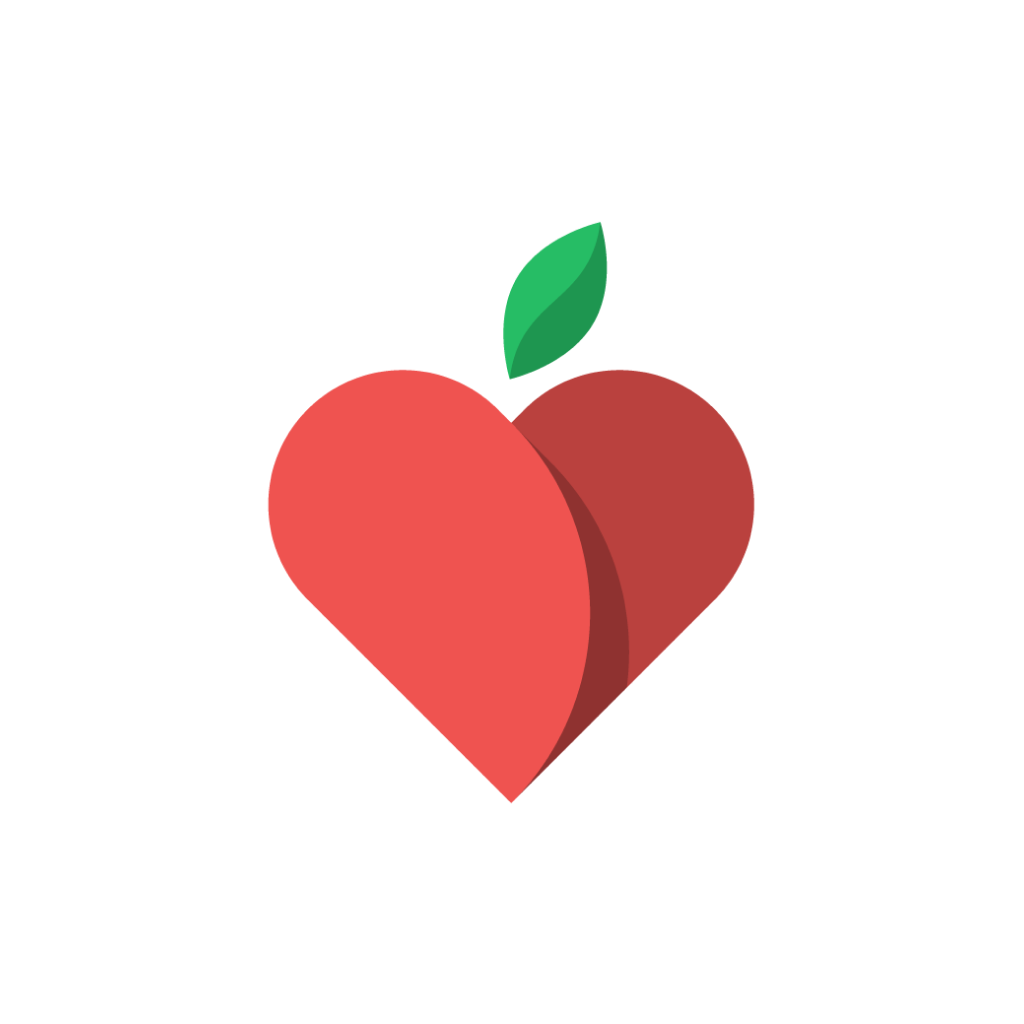
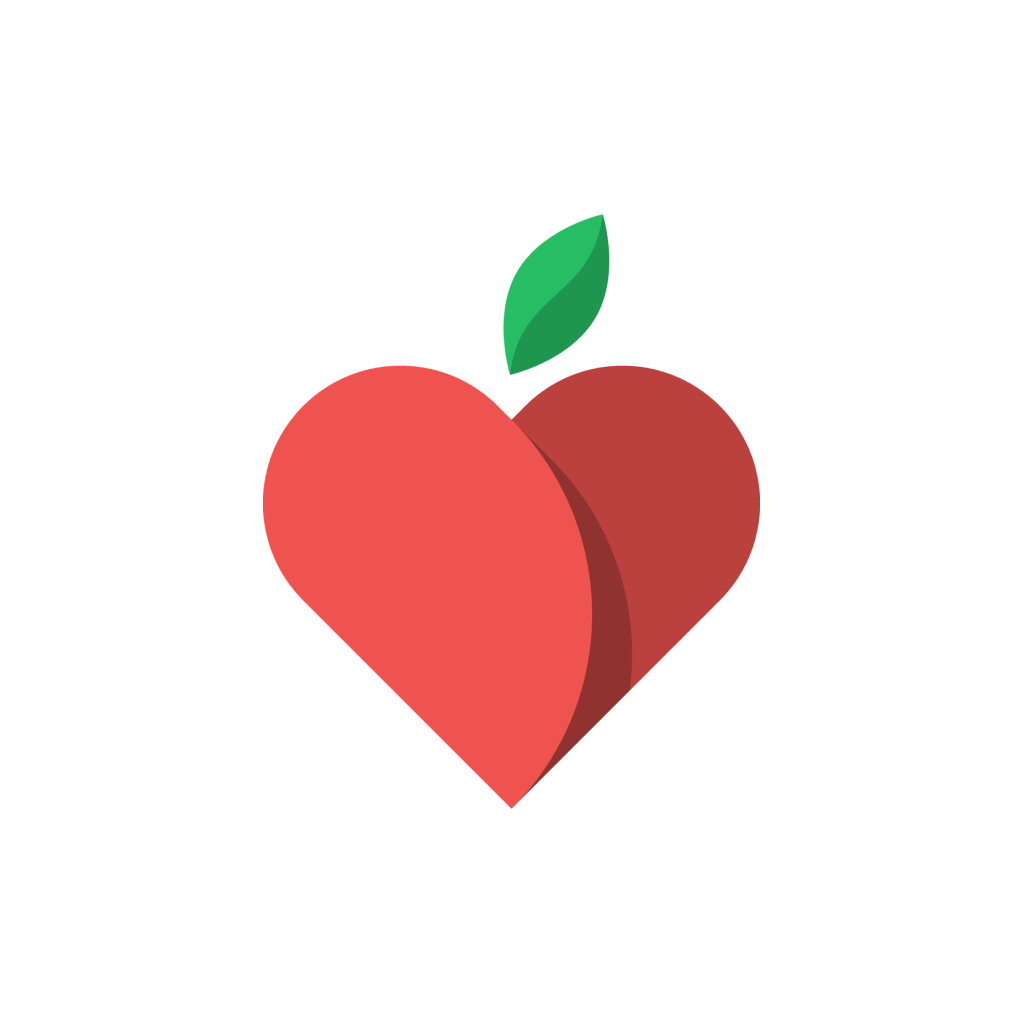
apply new brand

diff --git a/src/components/ProductHeaderComponent.js b/src/components/ProductHeaderComponent.js
@@ -10,11 +10,11 @@ export function ProductHeaderComponent({product}) {
     {
         switch (product.fodmapStatus) {
             case 'high':
-                return (<Text><FontAwesome name="circle" size={16} color="red" /> Avoid</Text>)
+                return (<Text><FontAwesome name="circle" size={16} color="#EF5350" /> Avoid</Text>)
             case 'medium':
                 return (<Text><FontAwesome name="circle" size={16} color="orange" /> Caution</Text>)
             case 'low':
-                return (<Text><FontAwesome name="circle" size={16} color="green" /> OK</Text>)
+                return (<Text><FontAwesome name="circle" size={16} color="#26BD65" /> OK</Text>)
             case 'unknown':
             default:
                 return (<Text><FontAwesome name="circle" size={16} color="lightgrey" /> Unknown</Text>)

diff --git a/src/components/IngredientListComponent.js b/src/components/IngredientListComponent.js
@@ -10,11 +10,11 @@ export function IngredientListComponent({  product }) {
   {
       switch (fodmapStatus) {
           case 'high':
-            return (<Text>Avoid <FontAwesome name="circle" size={16} color="red" /></Text>)
+            return (<Text>Avoid <FontAwesome name="circle" size={16} color="#EF5350" /></Text>)
           case 'medium':
             return (<Text>Caution <FontAwesome name="circle" size={16} color="orange" /></Text>)
           case 'low':
-            return (<Text>OK <FontAwesome name="circle" size={16} color="green" /></Text>)
+            return (<Text>OK <FontAwesome name="circle" size={16} color="#26BD65" /></Text>)
           case 'unknown':
           default:
             return (<Text>Unknown <FontAwesome name="circle" size={16} color="lightgrey" /></Text>)
